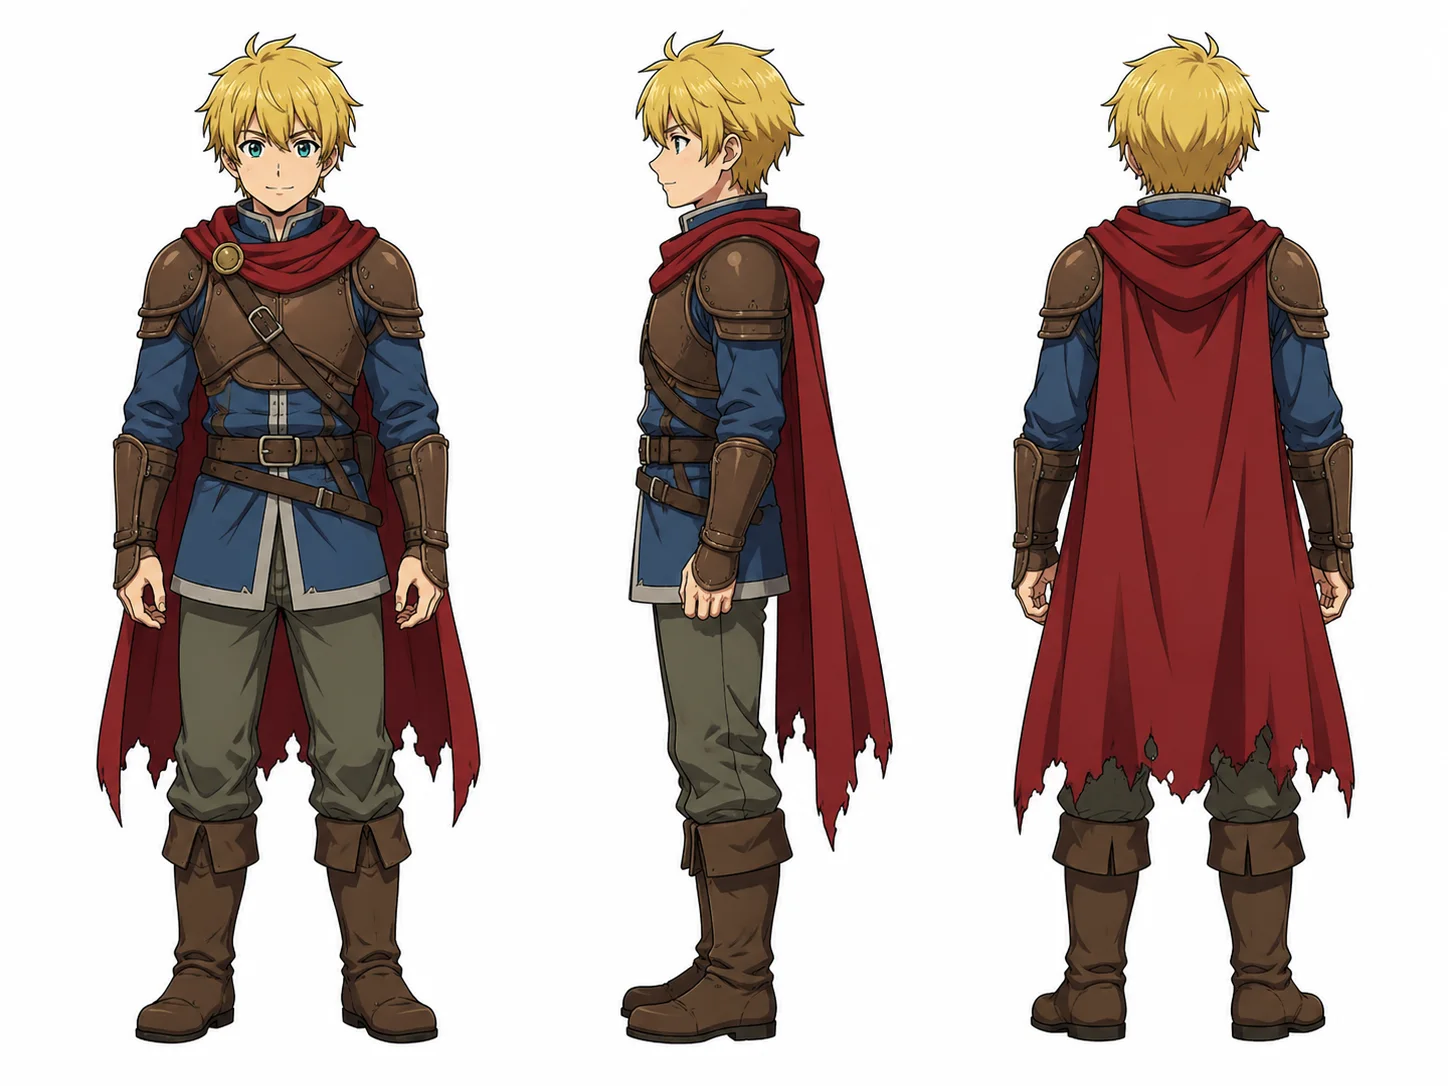
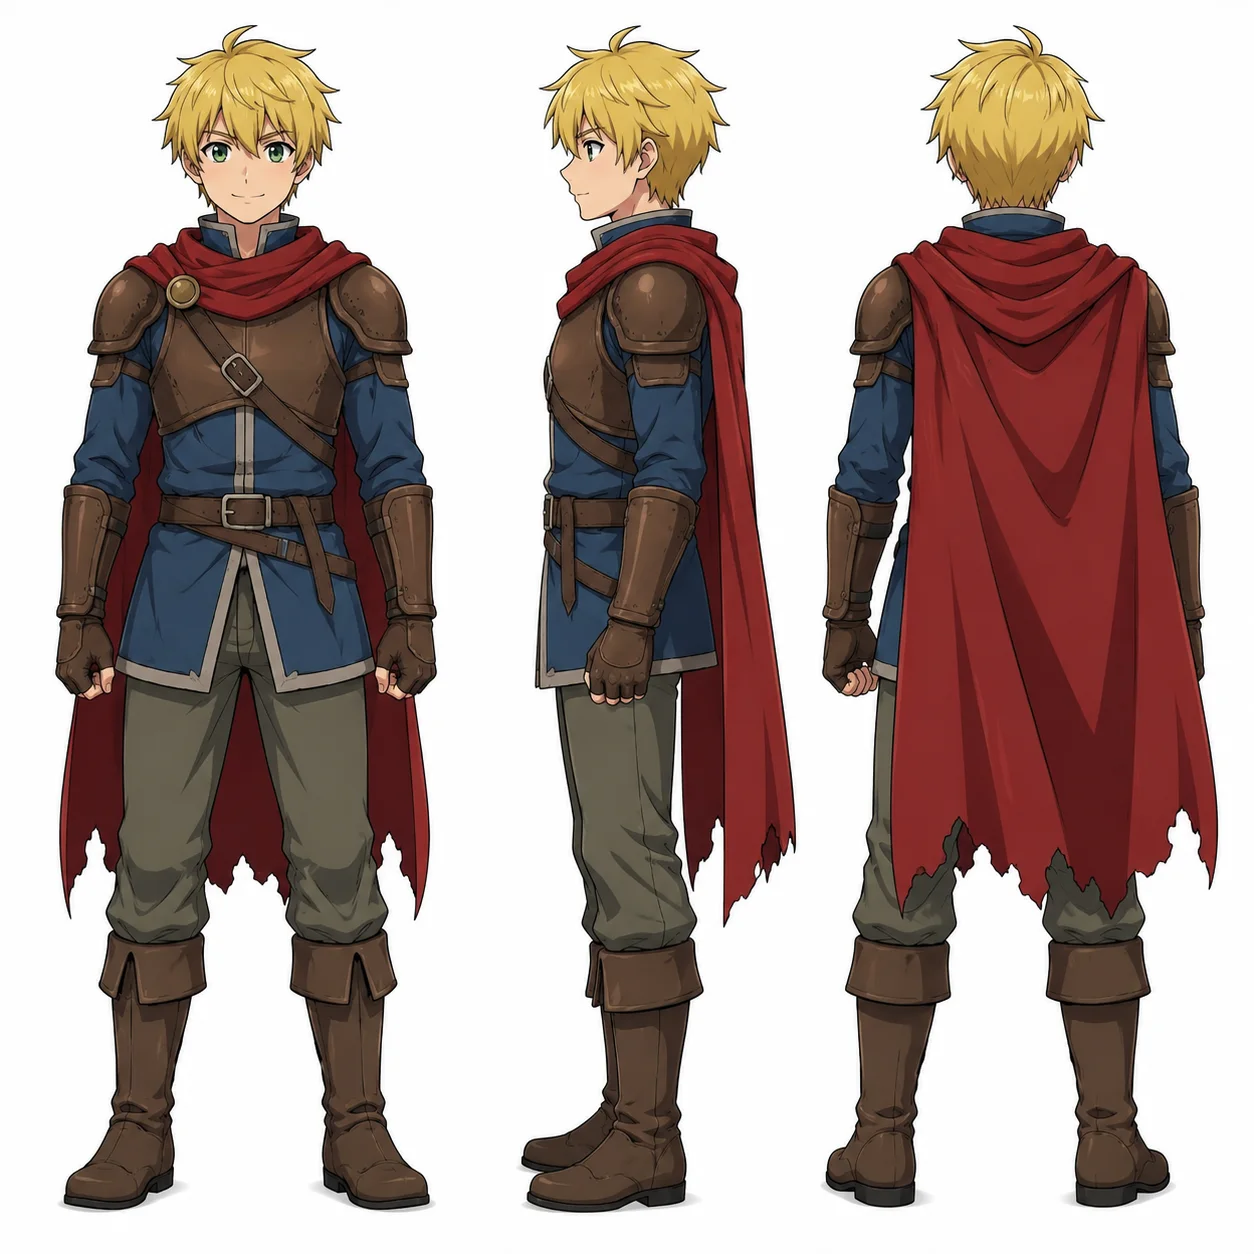
人物ページの三面図を背景クリーンな改良版に差し替え
- ミア・アルト・セラ・ゴルドの三面図を、白背景で見栄えの良い新版（1254×1254）に全員差し替え
- WebP（q84）を web/public/characters に再生成、assets/character の原本も更新
- 正方形になったため img の width/height を 1254×1254 に更新し、アセット台帳の実寸を修正

diff --git a/デザイン/アセット台帳.md b/デザイン/アセット台帳.md
@@ -28,7 +28,7 @@
 | mia-bunny-suit-turnaround.png | ミア三面図（旧・IMG_1141由来） | 中 | mia-turnaround-v2に統一したため未使用。予備 |
 | mia-character-sheet-annotated.jpeg | 注釈付き設定資料 | **不可** | 「[Placeholder Name]」＋崩れ英語多数。内部資料専用 |
 
-**パーティー4人の三面図（1448×1086・q84 WebP）は `web/public/characters/{mia,alto,sera,gold}.webp` として人物ページ `/characters` にフル幅で掲載中。** 旧 `web/public/gallery/mia-turnaround.webp` は置き換えのため削除済み。
+**パーティー4人の三面図（1254×1254・q84 WebP）は `web/public/characters/{mia,alto,sera,gold}.webp` として人物ページ `/characters` にフル幅で掲載中。** 背景がクリーンな改良版に差し替え済み（2026-07-06）。旧 `web/public/gallery/mia-turnaround.webp` は置き換えのため削除済み。
 
 ## assets/video/ — 映像素材
 
